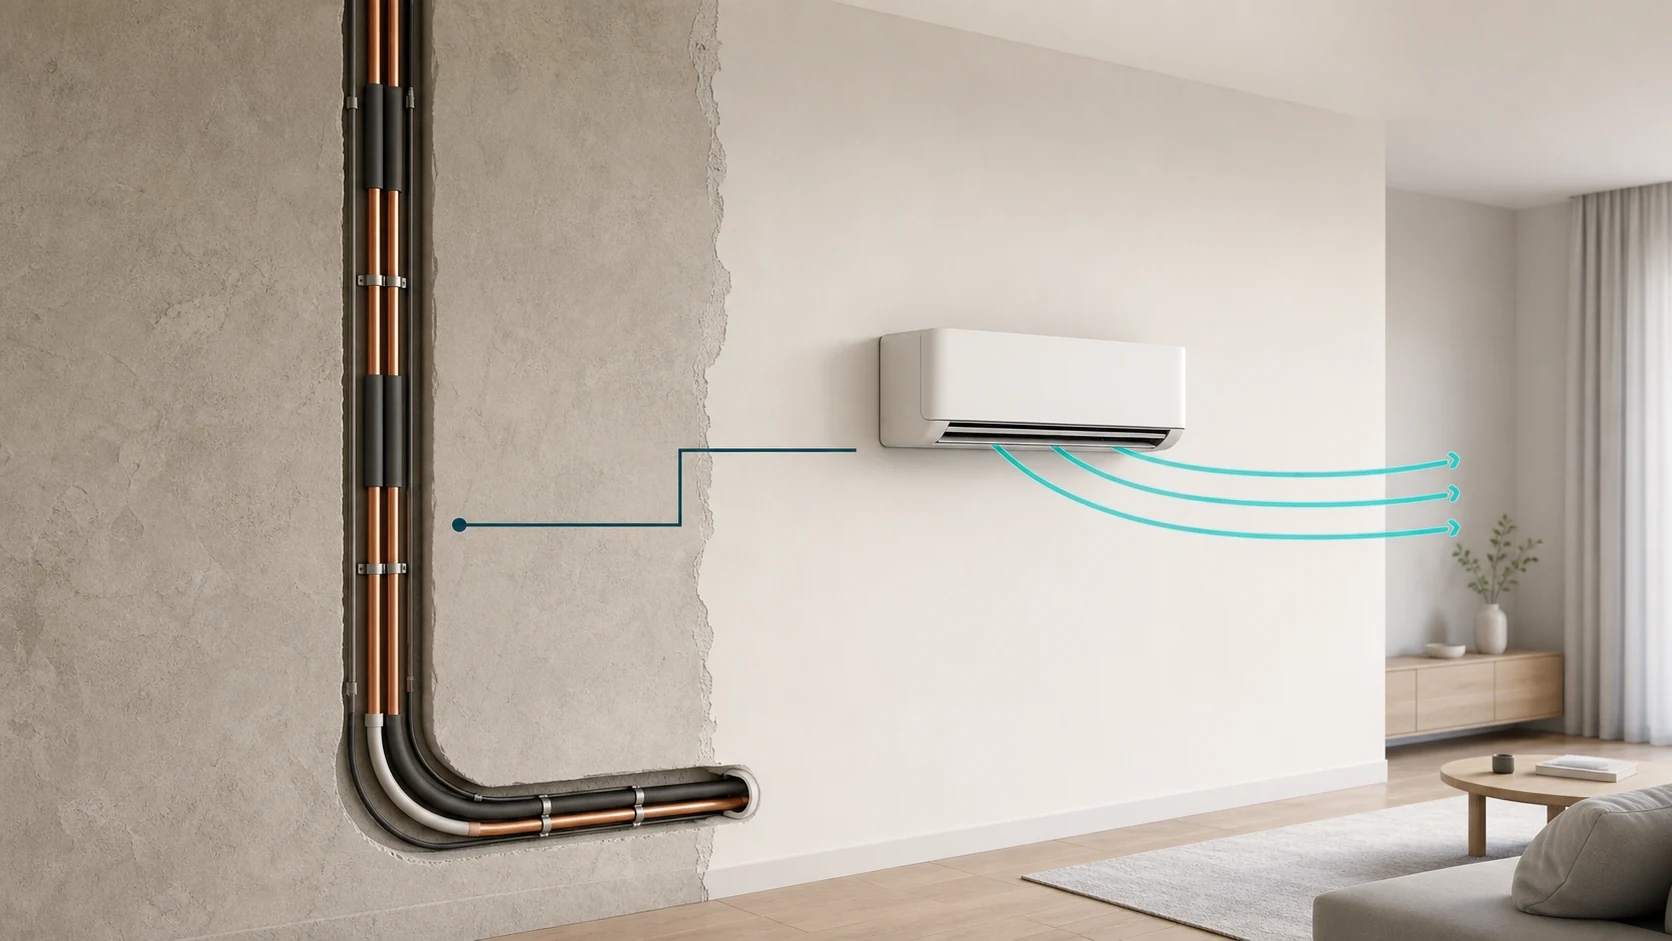
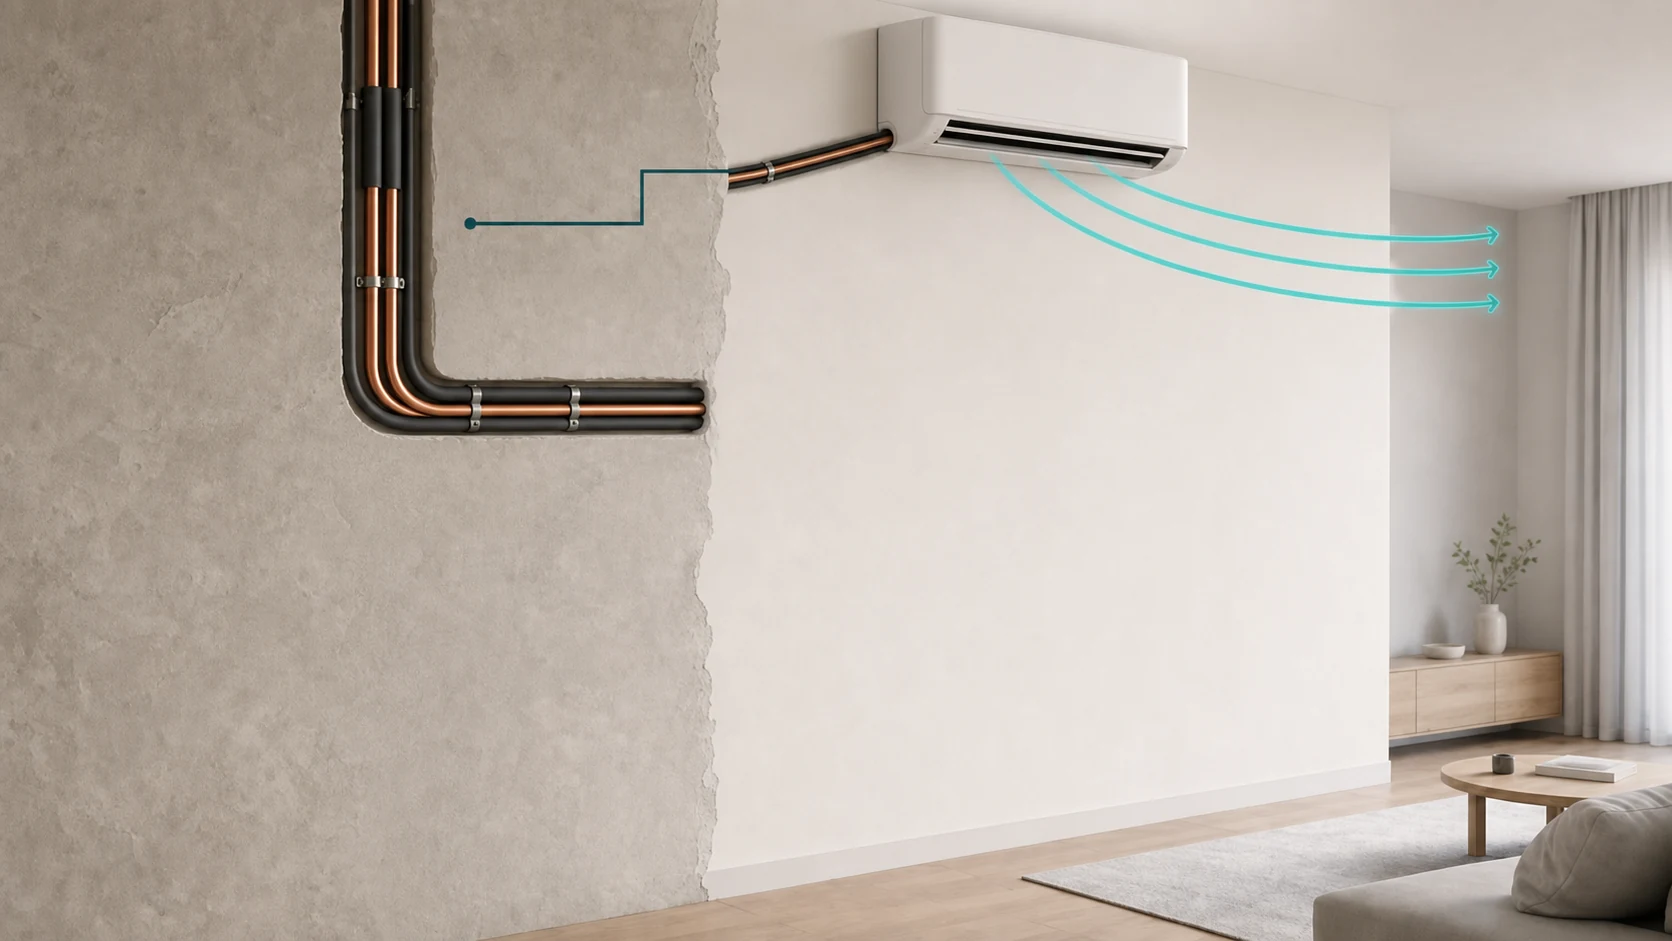
assets: correct installation and drain details (#706)

diff --git a/outputs/moodboards/mvn-calibration-v1/README.md b/outputs/moodboards/mvn-calibration-v1/README.md
@@ -17,7 +17,9 @@
 - coral используется только для ошибки/загрязнения;
 - отсутствуют подписи и псевдотекст;
 - финальный кадр размещения содержит ровно три независимые линии AirFlow;
-- WebP-версии весят 118–160 KiB.
+- монтажный блок расположен под потолком, а трасса поворачивает к его нижнему левому вводу;
+- дренаж в cutaway запаха показан вертикальным срезом вниз внутри корпуса, без фронтального патрубка;
+- WebP-версии весят 97–154 KiB.
 
 ## Воспроизводимый AirFlow
 
